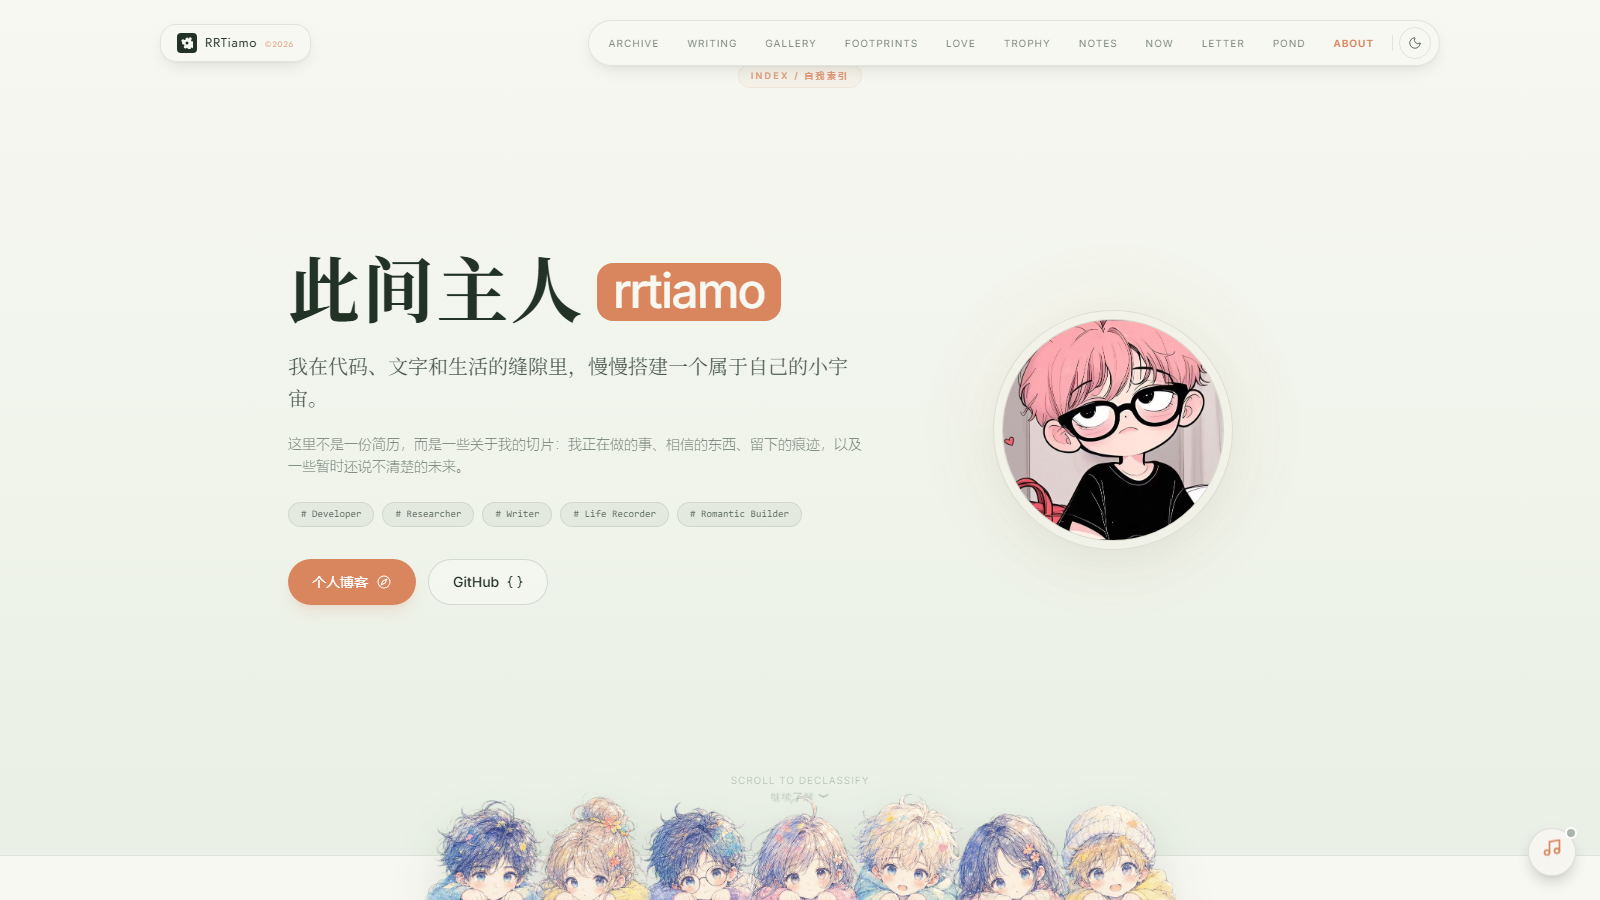
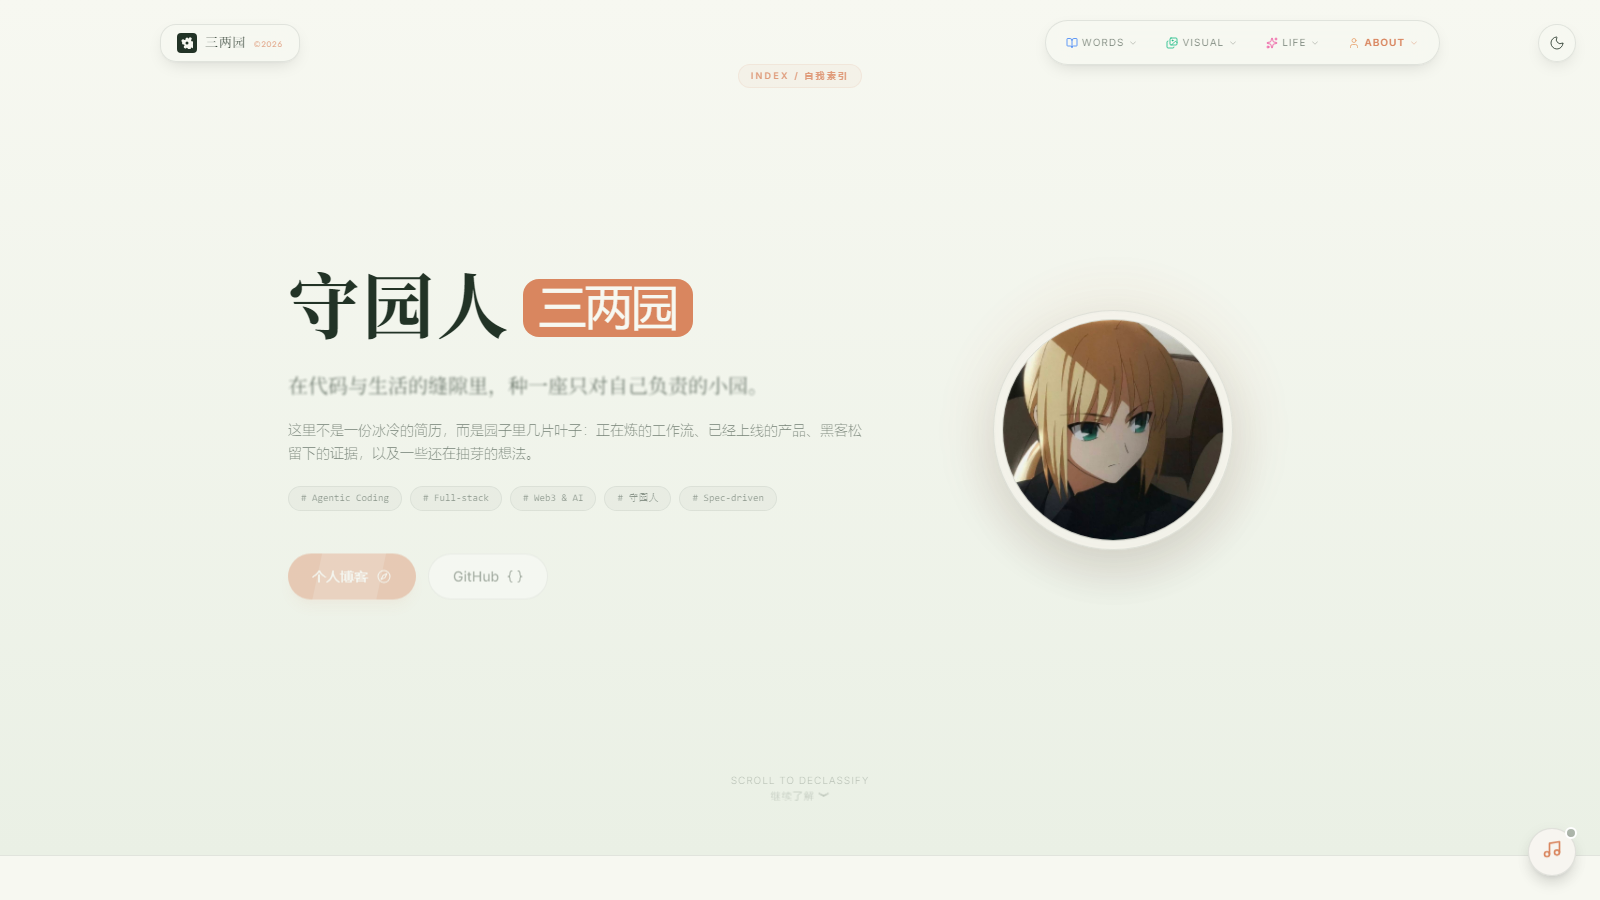
feat: restore v1 hero typography, update README showcase with fresh screenshots (13 pages)

diff --git a/src/components/home/HomeHero.tsx b/src/components/home/HomeHero.tsx
@@ -126,9 +126,7 @@ export default function HomeHero({
           </div>
 
           <div className="mt-8 max-w-full space-y-5 sm:max-w-3xl">
-            <h1
-              style={{ fontFamily: "var(--font-zcool-xiaowei)" }}
-              className="font-hero-h text-4xl font-semibold leading-[1.15] tracking-normal text-cream drop-shadow-[0_18px_48px_rgba(0,0,0,0.28)] sm:text-5xl md:text-6xl"
+            <h1 className="font-hero-h text-[3.55rem] font-semibold leading-[0.95] tracking-normal text-cream drop-shadow-[0_18px_48px_rgba(0,0,0,0.28)] sm:text-7xl md:text-8xl"
             >
               <TextType
                 text={[logoText || "三两园", welcomeText || "少写几行，多筑一境", welcomeSubtitle || "守园人"]}

diff --git a/README.md b/README.md
@@ -80,8 +80,9 @@ Next.js 16 App Router · React 19 · TypeScript 5 · Tailwind CSS 4 · GSAP + Le
 ### 推荐演示路径
 
 ```
-首页 hero / 导航 → /writing 文章列表 → 点击文章阅读 Markdown
-  → /gallery 照片墙灯箱 → /about 作者简介
+首页 hero / 导航 → /writing 文章列表 → 点开一篇 Markdown 阅读
+  → /gallery 照片墙 → /love 恋爱纪实 → /about 关于作者
+  → /notes 碎片 → /achievements 成就 → /pond 鱼塘反馈
 ```
 
 ### 页面相册
@@ -91,7 +92,10 @@ Next.js 16 App Router · React 19 · TypeScript 5 · Tailwind CSS 4 · GSAP + Le
 | | | |
 |:---:|:---:|:---:|
 | [![首页](assets/images/readme/showcase-home.png)](assets/images/readme/showcase-home.png)<br><br>**首页**<br>hero · 导航 · 滚动动效 | [![文章列表](assets/images/readme/showcase-writing.png)](assets/images/readme/showcase-writing.png)<br><br>**文章列表**<br>归档分组 · 标签 · 搜索 | [![文章详情](assets/images/readme/showcase-article-detail.png)](assets/images/readme/showcase-article-detail.png)<br><br>**文章详情**<br>Markdown · 提示块 · 代码高亮 |
-| [![照片墙](assets/images/readme/showcase-gallery.png)](assets/images/readme/showcase-gallery.png)<br><br>**照片墙**<br>瀑布流 · 灯箱 · 分类 | [![关于](assets/images/readme/showcase-about.png)](assets/images/readme/showcase-about.png)<br><br>**关于**<br>作者简介 · 坐标 · 自我切片 | |
+| [![照片墙](assets/images/readme/showcase-gallery.png)](assets/images/readme/showcase-gallery.png)<br><br>**照片墙**<br>瀑布流 · 灯箱 · 分类 | [![关于](assets/images/readme/showcase-about.png)](assets/images/readme/showcase-about.png)<br><br>**关于**<br>作者简介 · 坐标 · 自我切片 | [![岁月信件](assets/images/readme/showcase-letter.png)](assets/images/readme/showcase-letter.png)<br><br>**岁月信件**<br>时间胶囊 · 倒计时 · 揭晓 |
+| [![年份归档](assets/images/readme/showcase-archive.png)](assets/images/readme/showcase-archive.png)<br><br>**年份归档**<br>按年索引 · 时间线 | [![日常碎片](assets/images/readme/showcase-notes.png)](assets/images/readme/showcase-notes.png)<br><br>**日常碎片**<br>短内容 · 轻量记录 | [![当前状态](assets/images/readme/showcase-now.png)](assets/images/readme/showcase-now.png)<br><br>**当前状态**<br>正在读 · 正在听 · 正在做 |
+| [![鱼塘反馈](assets/images/readme/showcase-pond.png)](assets/images/readme/showcase-pond.png)<br><br>**鱼塘反馈**<br>留言 · 点赞 · 回复 | [![足迹](assets/images/readme/showcase-footprints.png)](assets/images/readme/showcase-footprints.png)<br><br>**足迹**<br>地图标点 · 行程回顾 | [![恋爱纪实](assets/images/readme/showcase-love.png)](assets/images/readme/showcase-love.png)<br><br>**恋爱纪实**<br>时间线 · 愿望清单 · 记忆轨 |
+| [![成就徽章](assets/images/readme/showcase-achievements.png)](assets/images/readme/showcase-achievements.png)<br><br>**成就徽章**<br>里程碑 · 可收集徽章 | | |
 
 在线 Demo：[threetwoa-digital-garden.vercel.app](https://threetwoa-digital-garden.vercel.app)
 

diff --git a/README.en.md b/README.en.md
@@ -81,7 +81,8 @@ Playwright captures at `1600×900`. After [Quick Start](#quick-start), walk the 
 
 ```
 Home hero / nav → /writing article list → open an article for Markdown
-  → /gallery lightbox → /about author profile
+  → /gallery lightbox → /love relationship archive → /about author profile
+  → /notes fragments → /achievements badges → /pond guestbook
 ```
 
 ### Page gallery
@@ -91,7 +92,10 @@ Home hero / nav → /writing article list → open an article for Markdown
 | | | |
 |:---:|:---:|:---:|
 | [![Home](assets/images/readme/showcase-home.png)](assets/images/readme/showcase-home.png)<br><br>**Home**<br>hero · nav · scroll-driven motion | [![Writing list](assets/images/readme/showcase-writing.png)](assets/images/readme/showcase-writing.png)<br><br>**Writing list**<br>archive groups · tags · search | [![Article](assets/images/readme/showcase-article-detail.png)](assets/images/readme/showcase-article-detail.png)<br><br>**Article**<br>Markdown · callouts · code highlight |
-| [![Gallery](assets/images/readme/showcase-gallery.png)](assets/images/readme/showcase-gallery.png)<br><br>**Gallery**<br>masonry · lightbox · categories | [![About](assets/images/readme/showcase-about.png)](assets/images/readme/showcase-about.png)<br><br>**About**<br>author profile · coordinates · self-slices | |
+| [![Gallery](assets/images/readme/showcase-gallery.png)](assets/images/readme/showcase-gallery.png)<br><br>**Gallery**<br>masonry · lightbox · categories | [![About](assets/images/readme/showcase-about.png)](assets/images/readme/showcase-about.png)<br><br>**About**<br>author profile · coordinates · self-slices | [![Letter](assets/images/readme/showcase-letter.png)](assets/images/readme/showcase-letter.png)<br><br>**Letter**<br>time capsule · countdown · reveal |
+| [![Archive](assets/images/readme/showcase-archive.png)](assets/images/readme/showcase-archive.png)<br><br>**Archive**<br>yearly index · timeline | [![Notes](assets/images/readme/showcase-notes.png)](assets/images/readme/showcase-notes.png)<br><br>**Notes**<br>short form · lightweight entries | [![Now](assets/images/readme/showcase-now.png)](assets/images/readme/showcase-now.png)<br><br>**Now**<br>reading · listening · doing |
+| [![Pond](assets/images/readme/showcase-pond.png)](assets/images/readme/showcase-pond.png)<br><br>**Pond**<br>guestbook · likes · replies | [![Footprints](assets/images/readme/showcase-footprints.png)](assets/images/readme/showcase-footprints.png)<br><br>**Footprints**<br>map markers · trip review | [![Love](assets/images/readme/showcase-love.png)](assets/images/readme/showcase-love.png)<br><br>**Love**<br>timeline · wishlist · memory rail |
+| [![Achievements](assets/images/readme/showcase-achievements.png)](assets/images/readme/showcase-achievements.png)<br><br>**Achievements**<br>milestones · collectible badges | | |
 
 Live demo: [threetwoa-digital-garden.vercel.app](https://threetwoa-digital-garden.vercel.app)
 
